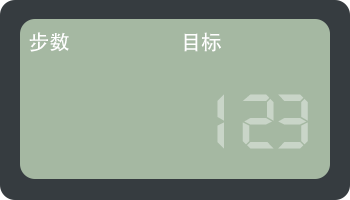
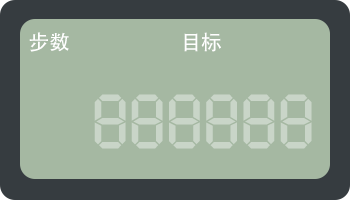
更换panel图片

Changed region(s): [[0.2571, 0.45, 0.7143, 0.75], [0.7429, 0.45, 0.8286, 0.75], [0.8571, 0.48, 0.8857, 0.75]]

diff --git a/Calucator-Game/Form1.Designer.cs b/Calucator-Game/Form1.Designer.cs
@@ -28,46 +28,54 @@
         /// </summary>
         private void InitializeComponent()
         {
-            this.panel1 = new System.Windows.Forms.Panel();
+            System.ComponentModel.ComponentResourceManager resources = new System.ComponentModel.ComponentResourceManager(typeof(Form1));
             this.button1 = new System.Windows.Forms.Button();
+            this.panel1 = new System.Windows.Forms.Panel();
             this.SuspendLayout();
-            // 
-            // panel1
-            // 
-            this.panel1.BackColor = System.Drawing.Color.Transparent;
-            this.panel1.BackgroundImage = global::Calucator_Game.Resource1.panel;
-            this.panel1.BackgroundImageLayout = System.Windows.Forms.ImageLayout.Stretch;
-            this.panel1.Location = new System.Drawing.Point(3, 1);
-            this.panel1.Name = "panel1";
-            this.panel1.Size = new System.Drawing.Size(350, 200);
-            this.panel1.TabIndex = 0;
             // 
             // button1
             // 
             this.button1.BackgroundImage = global::Calucator_Game.Resource1.button_normal_black;
             this.button1.BackgroundImageLayout = System.Windows.Forms.ImageLayout.Stretch;
             this.button1.FlatAppearance.BorderSize = 0;
+            this.button1.FlatAppearance.MouseDownBackColor = System.Drawing.Color.Transparent;
+            this.button1.FlatAppearance.MouseOverBackColor = System.Drawing.Color.Transparent;
             this.button1.FlatStyle = System.Windows.Forms.FlatStyle.Flat;
-            this.button1.Location = new System.Drawing.Point(110, 207);
+            this.button1.ForeColor = System.Drawing.Color.White;
+            this.button1.ImageAlign = System.Drawing.ContentAlignment.MiddleLeft;
+            this.button1.Location = new System.Drawing.Point(124, 207);
             this.button1.Name = "button1";
             this.button1.Size = new System.Drawing.Size(100, 79);
             this.button1.TabIndex = 1;
             this.button1.Text = "button1";
             this.button1.UseVisualStyleBackColor = true;
+            this.button1.MouseDown += new System.Windows.Forms.MouseEventHandler(this.button1_MouseDown);
+            this.button1.MouseUp += new System.Windows.Forms.MouseEventHandler(this.button1_MouseUp);
+            // 
+            // panel1
+            // 
+            this.panel1.BackColor = System.Drawing.Color.Transparent;
+            this.panel1.BackgroundImage = ((System.Drawing.Image)(resources.GetObject("panel1.BackgroundImage")));
+            this.panel1.BackgroundImageLayout = System.Windows.Forms.ImageLayout.Stretch;
+            this.panel1.Location = new System.Drawing.Point(3, 1);
+            this.panel1.Name = "panel1";
+            this.panel1.Size = new System.Drawing.Size(350, 200);
+            this.panel1.TabIndex = 0;
             // 
             // Form1
             // 
             this.AutoScaleDimensions = new System.Drawing.SizeF(120F, 120F);
             this.AutoScaleMode = System.Windows.Forms.AutoScaleMode.Dpi;
+            this.BackColor = System.Drawing.Color.White;
             this.ClientSize = new System.Drawing.Size(356, 529);
             this.Controls.Add(this.button1);
             this.Controls.Add(this.panel1);
             this.Name = "Form1";
             this.Text = "Form1";
+            this.Load += new System.EventHandler(this.Form1_Load);
             this.ResumeLayout(false);
 
         }
-
         #endregion
 
         private System.Windows.Forms.Panel panel1;

diff --git a/Calucator-Game/Form1.cs b/Calucator-Game/Form1.cs
@@ -16,5 +16,20 @@ namespace Calucator_Game
         {
             InitializeComponent();
         }
+
+        private void Form1_Load(object sender, EventArgs e)
+        {
+            //读取关卡数据
+        }
+
+        private void button1_MouseDown(object sender, MouseEventArgs e)
+        {
+            button1.BackgroundImage = Resource1.button_clicked_black;
+        }
+
+        private void button1_MouseUp(object sender, MouseEventArgs e)
+        {
+            button1.BackgroundImage = Resource1.button_normal_black;
+        }
     }
 }

diff --git a/Calucator-Game/Program.cs b/Calucator-Game/Program.cs
@@ -18,5 +18,6 @@ namespace Calucator_Game
             Application.SetCompatibleTextRenderingDefault(false);
             Application.Run(new Form1());
         }
+
     }
 }
